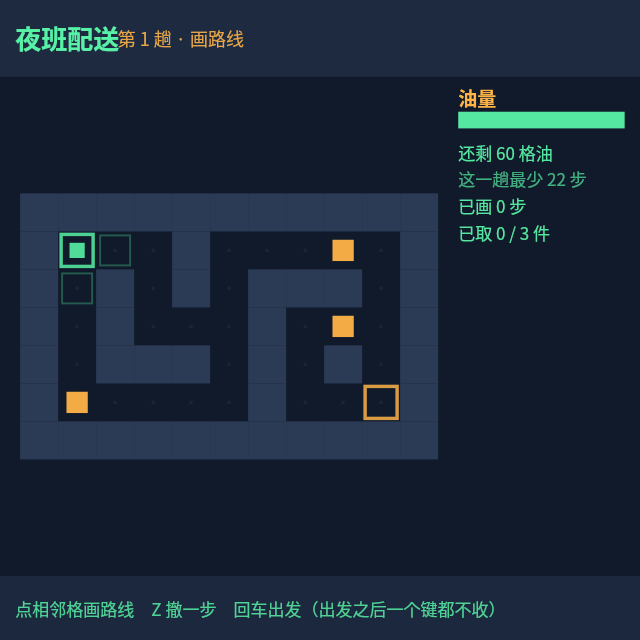
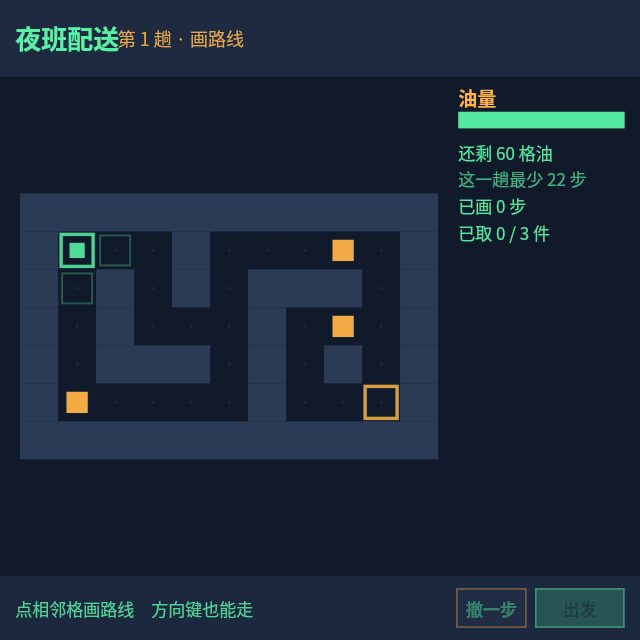
F6: 重产支持触控与键盘的游戏成品

Changed region(s): [[0.2188, 0.9062, 1.0, 1.0]]

diff --git a/public/works/game/one-shot-route-01.html b/public/works/game/one-shot-route-01.html
@@ -129,6 +129,24 @@ var bundle = (function () {
     };
   }
 
+  function actionBoxes() {
+    var L = layout();
+    var h = Math.max(30, L.foot * 0.62);
+    var gap = Math.max(8, L.pad * 0.55);
+    var launchW = Math.max(82, Math.min(118, W * 0.14));
+    var undoW = Math.max(70, Math.min(98, W * 0.11));
+    var y = L.footTop + (L.foot - h) / 2;
+    var launch = { x: W - L.pad - launchW, y: y, w: launchW, h: h };
+    return {
+      launch: launch,
+      undo: { x: launch.x - gap - undoW, y: y, w: undoW, h: h }
+    };
+  }
+
+  function inside(x, y, box) {
+    return x >= box.x && x <= box.x + box.w && y >= box.y && y <= box.y + box.h;
+  }
+
   function tileAt(x, y) {
     var L = layout();
     var c = Math.floor((x - L.ox) / L.tile), r = Math.floor((y - L.oy) / L.tile);
@@ -208,7 +226,11 @@ var bundle = (function () {
       if (phase !== "down") return;
       if (S.over) { if (S.overAge > 420) fresh(FUEL, 1); return; }
       if (S.phase !== "plan") return;             // 执行段不收任何输入
-      extend(tileAt(finite(x, -1), finite(y, -1)));
+      x = finite(x, -1); y = finite(y, -1);
+      var buttons = actionBoxes();
+      if (inside(x, y, buttons.launch)) { launch(); return; }
+      if (inside(x, y, buttons.undo)) { undo(); return; }
+      extend(tileAt(x, y));
     },
 
     key: function (code, phase) {
@@ -404,9 +426,32 @@ var bundle = (function () {
       g.textAlign = "left";
       g.fillStyle = rgba(ROUTE, 1);
       g.globalAlpha = 0.85;
-      g.fillText("点相邻格画路线　Z 撤一步　回车出发（出发之后一个键都不收）",
+      g.fillText("点相邻格画路线　方向键也能走",
         L.pad, L.footTop + L.foot / 2);
       g.globalAlpha = 1;
+
+      // 触屏完整路径：画完路线后不用借键盘，直接点“出发”；撤销也有同等入口。
+      if (S.phase === "plan" && !S.over) {
+        var buttons = actionBoxes();
+        var paintButton = function (box, label, enabled, strong) {
+          g.globalAlpha = enabled ? (strong ? 0.92 : 0.65) : 0.22;
+          g.fillStyle = rgba(strong ? ROUTE : WALL, 1);
+          g.fillRect(box.x, box.y, box.w, box.h);
+          g.globalAlpha = enabled ? 0.95 : 0.42;
+          g.strokeStyle = rgba(strong ? ROUTE : PICK, 1);
+          g.lineWidth = 1.5;
+          g.strokeRect(box.x + 0.75, box.y + 0.75, box.w - 1.5, box.h - 1.5);
+          pixel(g, Math.min(box.h * 0.46, Math.min(W, H) * 0.026), "700");
+          g.textAlign = "center";
+          g.textBaseline = "middle";
+          g.fillStyle = rgba(strong ? NIGHT : ROUTE, 1);
+          g.fillText(label, box.x + box.w / 2, box.y + box.h / 2);
+          g.textBaseline = "alphabetic";
+          g.globalAlpha = 1;
+        };
+        paintButton(buttons.undo, "撤一步", S.route.length > 1, false);
+        paintButton(buttons.launch, "出发", S.route.length > 1, true);
+      }
 
       if (S.over) {
         g.textAlign = "right";
@@ -419,6 +464,7 @@ var bundle = (function () {
 
     __probe: function () {
       var L = layout();
+      var buttons = actionBoxes();
       return {
         over: S.over, phase: S.phase, fuel: S.fuel, best: BEST, trip: S.trip,
         routeLen: S.route.length - 1, head: S.route[S.route.length - 1],
@@ -426,7 +472,7 @@ var bundle = (function () {
         got: [S.got[0], S.got[1], S.got[2]],
         cols: COLS, rows: ROWS,
         grid: GRID.slice(), start: START, exit: EXIT, picks: PICKS.slice(),
-        geom: { ox: L.ox, oy: L.oy, tile: L.tile }
+        geom: { ox: L.ox, oy: L.oy, tile: L.tile, launch: buttons.launch, undo: buttons.undo }
       };
     }
   };

diff --git a/public/works/game/paper-deduction-01.html b/public/works/game/paper-deduction-01.html
@@ -88,7 +88,7 @@ var bundle = (function () {
     for (i = 0; i < ROWS * COLS; i++) cells.push(0);
     S = {
       cells: cells, mode: "ink", mistakes: 0, found: 0, need: total(),
-      last: -1, lastKind: "", over: null, overAge: 0, acts: 0
+      last: -1, lastKind: "", cursor: 0, over: null, overAge: 0, acts: 0
     };
     return S;
   }
@@ -187,7 +187,8 @@ var bundle = (function () {
         S.mode = S.mode === "ink" ? "mark" : "ink";
         return;
       }
-      place(gridAt(x, y));
+      var i = gridAt(x, y);
+      if (i >= 0) { S.cursor = i; place(i); }
     },
 
     key: function (code, phase) {
@@ -196,6 +197,12 @@ var bundle = (function () {
         if (code === "Space" || code === "Enter" || code === " ") fresh();
         return;
       }
+      var r = Math.floor(S.cursor / COLS), c = S.cursor % COLS;
+      if (code === "ArrowLeft") { S.cursor = r * COLS + Math.max(0, c - 1); return; }
+      if (code === "ArrowRight") { S.cursor = r * COLS + Math.min(COLS - 1, c + 1); return; }
+      if (code === "ArrowUp") { S.cursor = Math.max(0, r - 1) * COLS + c; return; }
+      if (code === "ArrowDown") { S.cursor = Math.min(ROWS - 1, r + 1) * COLS + c; return; }
+      if (code === "Enter" || code === "KeyX") { place(S.cursor); return; }
       if (code === "Space" || code === "KeyM" || code === " ") S.mode = S.mode === "ink" ? "mark" : "ink";
     },
 
@@ -294,6 +301,17 @@ var bundle = (function () {
         }
       }
 
+      // 键盘光标：不用 hover，也能看见方向键下一次会落在哪一格。
+      if (!S.over) {
+        x = L.ox + L.gutter + (S.cursor % COLS) * L.cell;
+        y = L.oy + L.gutter + Math.floor(S.cursor / COLS) * L.cell;
+        g.globalAlpha = 0.78;
+        g.strokeStyle = rgba(RED, 1);
+        g.lineWidth = Math.max(2, L.cell * 0.07);
+        g.strokeRect(x + 2.5, y + 2.5, L.cell - 5, L.cell - 5);
+        g.globalAlpha = 1;
+      }
+
       // 输了才揭答案：没找到的实心格用铅笔轮廓补出来，让人看见自己差在哪
       if (S.over === "lose") {
         g.globalAlpha = 0.5;
@@ -375,6 +393,8 @@ var bundle = (function () {
         "打叉：确定是空的格（草稿，",
         "随便改，不算错）。",
         "",
+        "方向键移格，回车落下；",
+        "也可以直接点任意格。",
         "落错三次这一局到此为止。",
         "没有计时器，想多久都行。"
       ];
@@ -402,6 +422,7 @@ var bundle = (function () {
       return {
         over: S.over, mode: S.mode, mistakes: S.mistakes, mistakesMax: MISTAKES_MAX,
         found: S.found, need: S.need, left: S.need - S.found, acts: S.acts,
+        cursor: S.cursor,
         rows: ROWS, cols: COLS,
         cells: S.cells.slice(),          // 屏上看得见的东西：哪些格已定、哪些打了叉
         rowClues: ROWC, colClues: COLC,  // 屏上印着的线索
